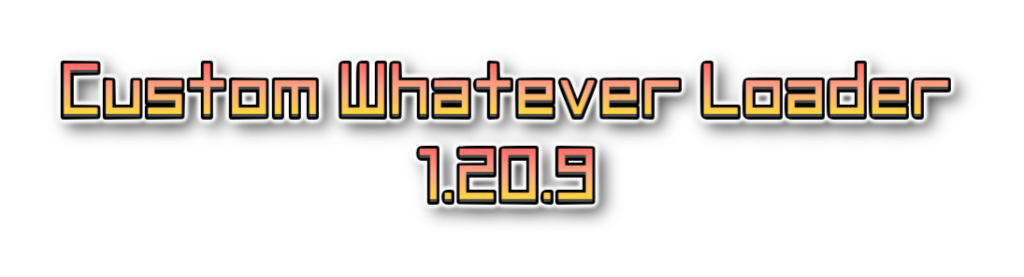
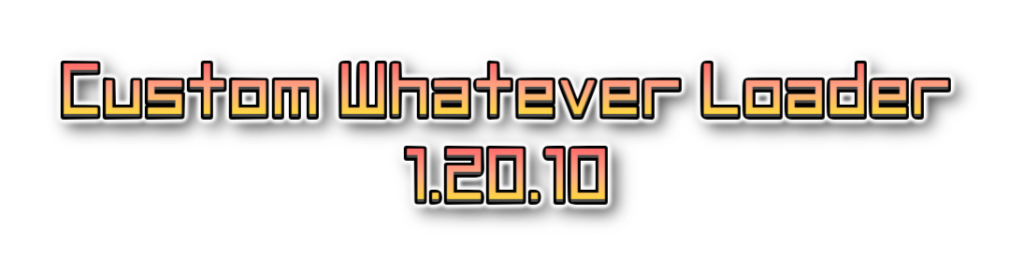
chore(CWL): bump version

diff --git a/CustomWhateverLoader/Loader/CustomWhateverLoader.cs b/CustomWhateverLoader/Loader/CustomWhateverLoader.cs
@@ -1,6 +1,9 @@
-using System.Reflection;
+using System;
+using System.Linq;
+using System.Reflection;
 using BepInEx;
 using ReflexCLI;
+using UnityEngine;
 
 namespace Cwl;
 
@@ -9,7 +12,7 @@ public static class ModInfo
     // for legacy reason
     public const string Guid = "dk.elinplugins.customdialogloader";
     public const string Name = "Custom Whatever Loader";
-    public const string Version = "1.20.10";
+    public const string Version = "1.20.11";
 }
 
 [BepInPlugin(ModInfo.Guid, ModInfo.Name, ModInfo.Version)]
